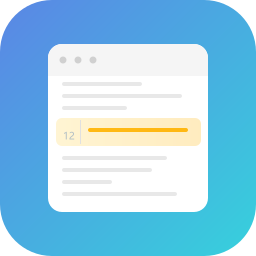
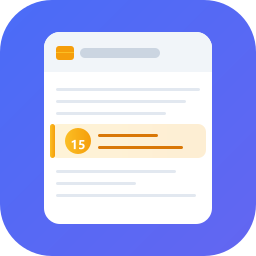
design: 图标突出文件路径、行号、代码内容三要素

diff --git a/gen-icon.js b/gen-icon.js
@@ -5,40 +5,43 @@ const svg = `
 <svg width="256" height="256" viewBox="0 0 256 256" xmlns="http://www.w3.org/2000/svg">
   <defs>
     <linearGradient id="bg" x1="0%" y1="0%" x2="100%" y2="100%">
-      <stop offset="0%" stop-color="#5B86E5"/>
-      <stop offset="100%" stop-color="#36D1DC"/>
+      <stop offset="0%" stop-color="#4A6CF7"/>
+      <stop offset="100%" stop-color="#6366F1"/>
     </linearGradient>
     <linearGradient id="hl" x1="0%" y1="0%" x2="100%" y2="0%">
-      <stop offset="0%" stop-color="#FFD54F"/>
-      <stop offset="100%" stop-color="#FFB300"/>
+      <stop offset="0%" stop-color="#FBBF24"/>
+      <stop offset="100%" stop-color="#F59E0B"/>
     </linearGradient>
   </defs>
 
   <rect x="0" y="0" width="256" height="256" rx="52" fill="url(#bg)"/>
 
-  <rect x="48" y="44" width="160" height="168" rx="14" fill="#ffffff"/>
-  <rect x="48" y="44" width="160" height="32" rx="14" fill="#F5F5F5"/>
-  <rect x="48" y="62" width="160" height="14" fill="#F5F5F5"/>
+  <rect x="44" y="32" width="168" height="192" rx="16" fill="#ffffff"/>
 
-  <circle cx="63" cy="60" r="3.5" fill="#D0D0D0"/>
-  <circle cx="78" cy="60" r="3.5" fill="#D0D0D0"/>
-  <circle cx="93" cy="60" r="3.5" fill="#D0D0D0"/>
+  <rect x="44" y="32" width="168" height="40" rx="16" fill="#F1F5F9"/>
+  <rect x="44" y="58" width="168" height="14" fill="#F1F5F9"/>
 
-  <rect x="62" y="82" width="80" height="4" rx="2" fill="#E8E8E8"/>
-  <rect x="62" y="94" width="120" height="4" rx="2" fill="#E8E8E8"/>
-  <rect x="62" y="106" width="65" height="4" rx="2" fill="#E8E8E8"/>
+  <rect x="56" y="46" width="18" height="14" rx="3" fill="#F59E0B"/>
+  <rect x="56" y="52" width="18" height="1" fill="#FBBF24"/>
+  <rect x="80" y="48" width="80" height="10" rx="5" fill="#CBD5E1"/>
 
-  <rect x="56" y="118" width="145" height="28" rx="6" fill="url(#hl)" opacity="0.25"/>
+  <rect x="56" y="88" width="144" height="3" rx="1.5" fill="#E2E8F0"/>
+  <rect x="56" y="100" width="130" height="3" rx="1.5" fill="#E2E8F0"/>
+  <rect x="56" y="112" width="110" height="3" rx="1.5" fill="#E2E8F0"/>
 
-  <text x="63" y="136" font-family="monospace" font-size="10" fill="#B0BEC5"
-        text-anchor="start" dominant-baseline="middle">12</text>
-  <rect x="80" y="120" width="1" height="24" fill="#E0E0E0"/>
-  <rect x="88" y="128" width="100" height="4" rx="2" fill="#FFB300" opacity="0.9"/>
+  <rect x="50" y="124" width="156" height="34" rx="8" fill="url(#hl)" opacity="0.18"/>
+  <rect x="50" y="124" width="5" height="34" rx="2.5" fill="url(#hl)"/>
 
-  <rect x="62" y="156" width="105" height="4" rx="2" fill="#E8E8E8"/>
-  <rect x="62" y="168" width="90" height="4" rx="2" fill="#E8E8E8"/>
-  <rect x="62" y="180" width="50" height="4" rx="2" fill="#E8E8E8"/>
-  <rect x="62" y="192" width="115" height="4" rx="2" fill="#E8E8E8"/>
+  <circle cx="78" cy="141" r="13" fill="url(#hl)"/>
+  <text x="78" y="145" font-family="monospace" font-size="12" fill="#ffffff"
+        text-anchor="middle" dominant-baseline="middle" font-weight="bold">15</text>
+
+  <rect x="98" y="134" width="60" height="3" rx="1.5" fill="#D97706"/>
+  <rect x="98" y="146" width="85" height="3" rx="1.5" fill="#D97706"/>
+
+  <rect x="56" y="170" width="120" height="3" rx="1.5" fill="#E2E8F0"/>
+  <rect x="56" y="182" width="80" height="3" rx="1.5" fill="#E2E8F0"/>
+  <rect x="56" y="194" width="140" height="3" rx="1.5" fill="#E2E8F0"/>
 </svg>
 `;
 